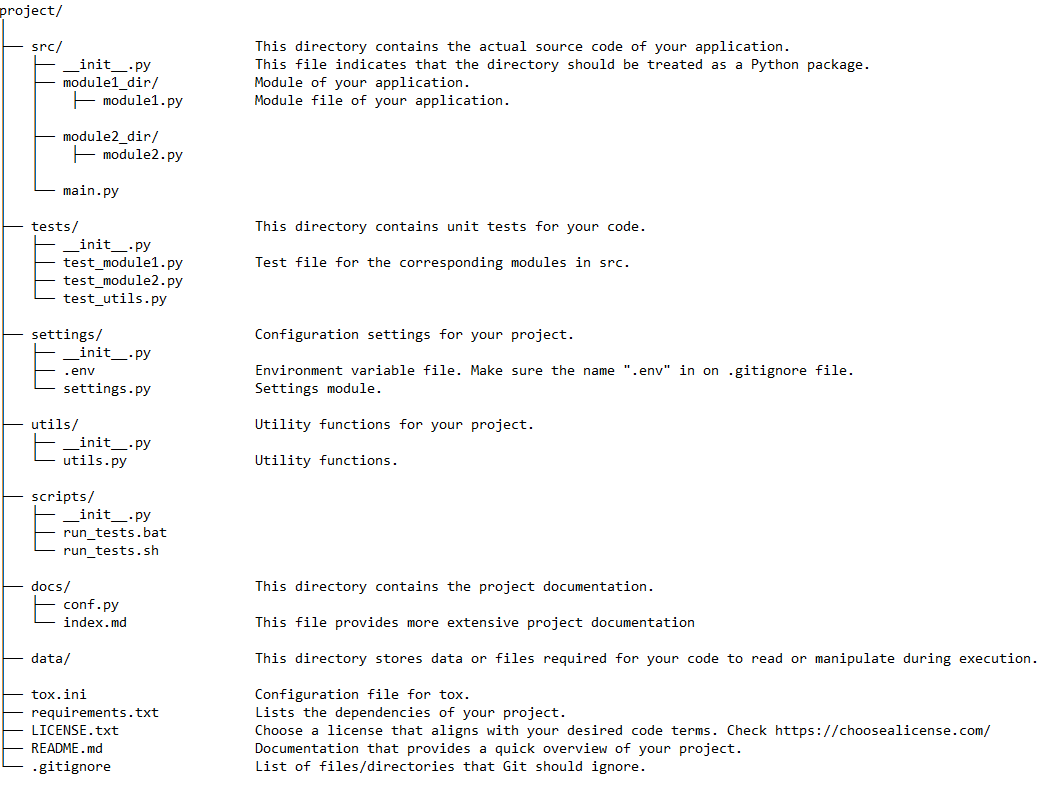
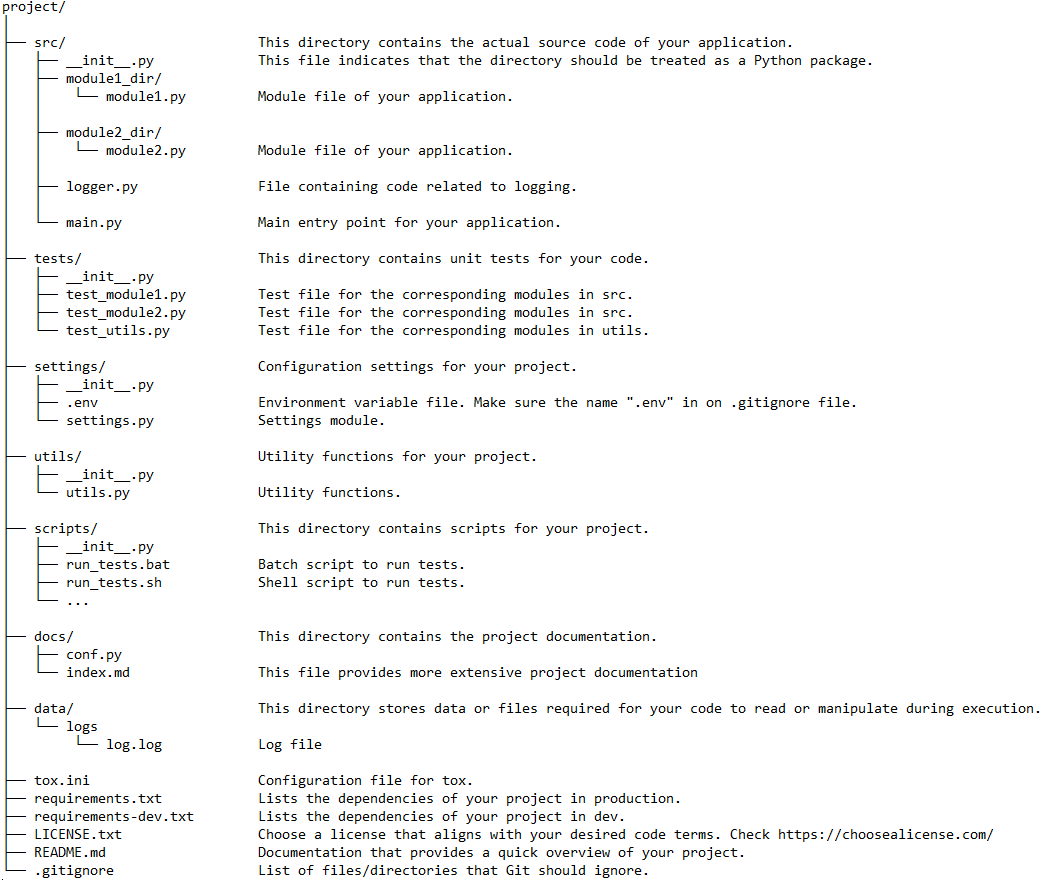
Documentation adjust

diff --git a/README.md b/README.md
@@ -11,35 +11,30 @@ This is a template for a Python project with basic directories and file examples
 <img src="docs/source/project_structure.png" alt="structure"/>
 
 
-## Information
+## How to use this Python Project Template
 
-## .env file
+## ON PRODUCTION
 
-Take a look at the .env_example file and change its name to .env
+### .env file
 
-The .env file is often used to store environment variables in a project. Environment variables are values external to the source code that can be used by the application. Store sensitive data and settings in this file that others outside the local scope should not have access to.
+Take a look at the .env_example file and implement your own .env file.
 
-Examples:
-
-Sensitive Data and Settings:
-Store API keys, passwords, access tokens, and other sensitive information that should not be included directly in the source code.
-
-Environment Settings:
-Define environment-specific settings, such as the URL of a development, test, or production database.
-
-Configuration Parameters:
-Configure application parameters that may vary between different environments (development, test, production).
-
-Activation/Deactivation of Features:
-Control the activation or deactivation of specific application features or functionalities.
+The .env file is often used to store environment variables with sensitive information that should not be included directly in the source code. Store sensitive data and settings in this file that others outside the local scope should not have access to. Example: API keys, passwords, access tokens, URL of a development, test, or production database, etc.
 
 Make sure the name ".env" in on your .gitignore file.
 
-## dotenv library
+### dotenv library
 
 The dotenv library is used to load the .env file for the environment variables so that they can be captured by the system.
 This library is used in the settings.py file, where you can find an example of its use.
 
+### Logging
+
+This project includes a configured log file. We use the built-in logging library to generate logs.
+Logs are written to the data/logs folder.
+You can check examples of logging usage in the src/ folder.
+
+## ON DEVELOPMENT
 
 ## Tests and Code Quality
 
